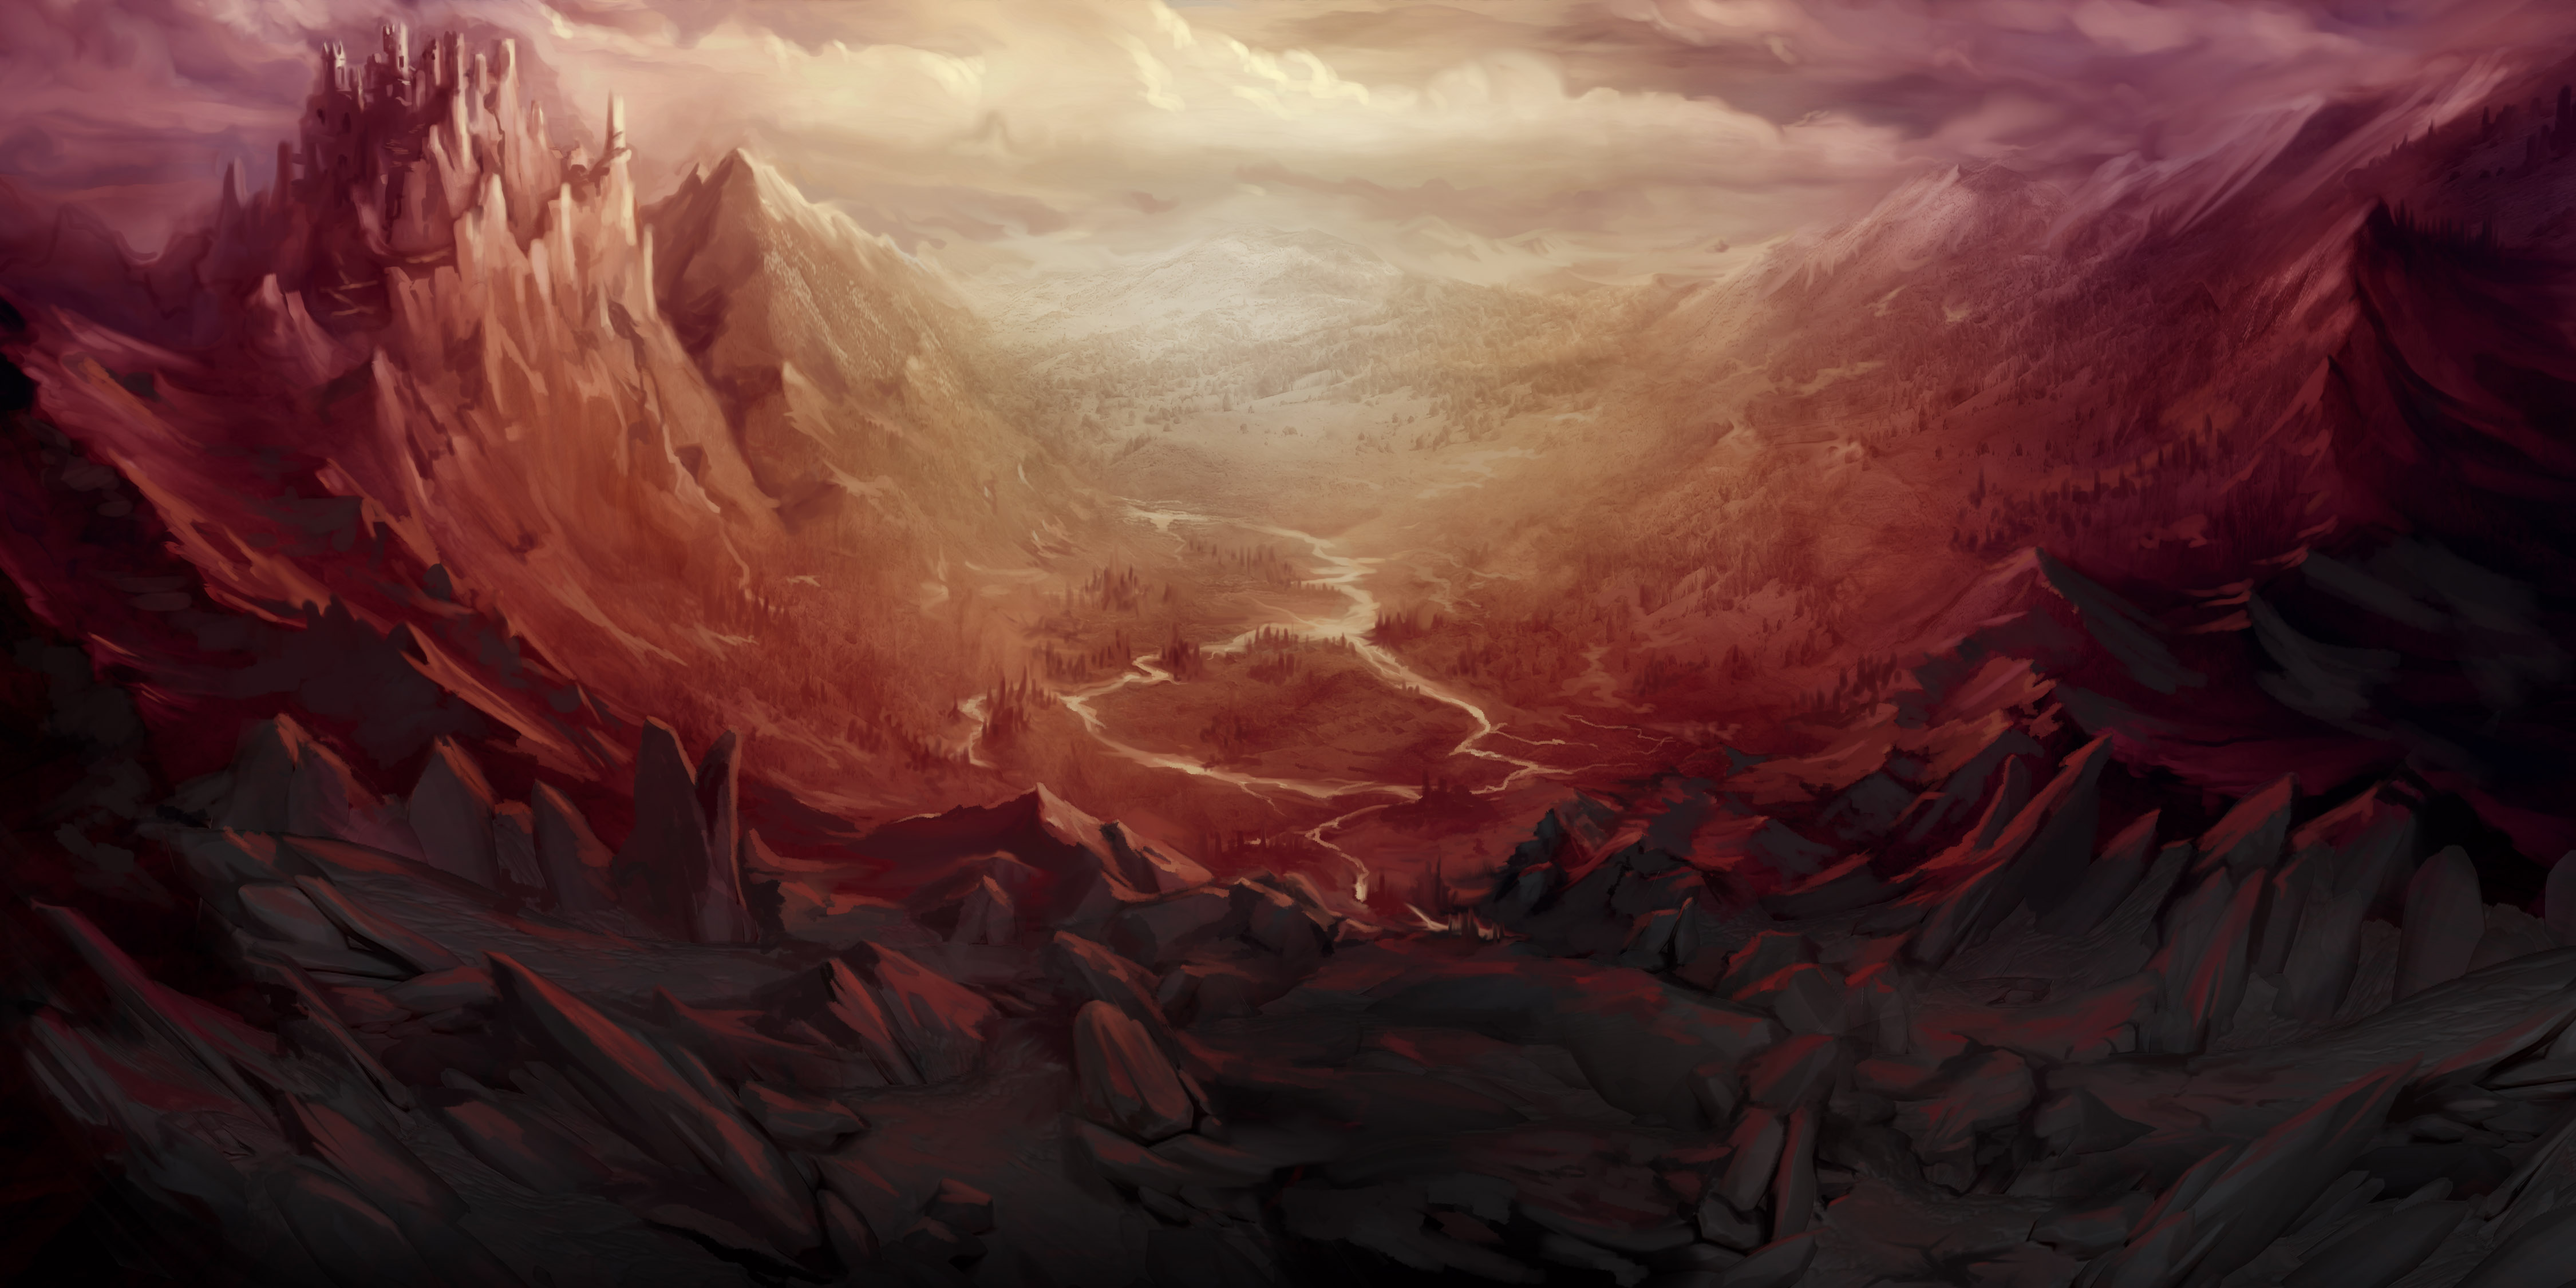
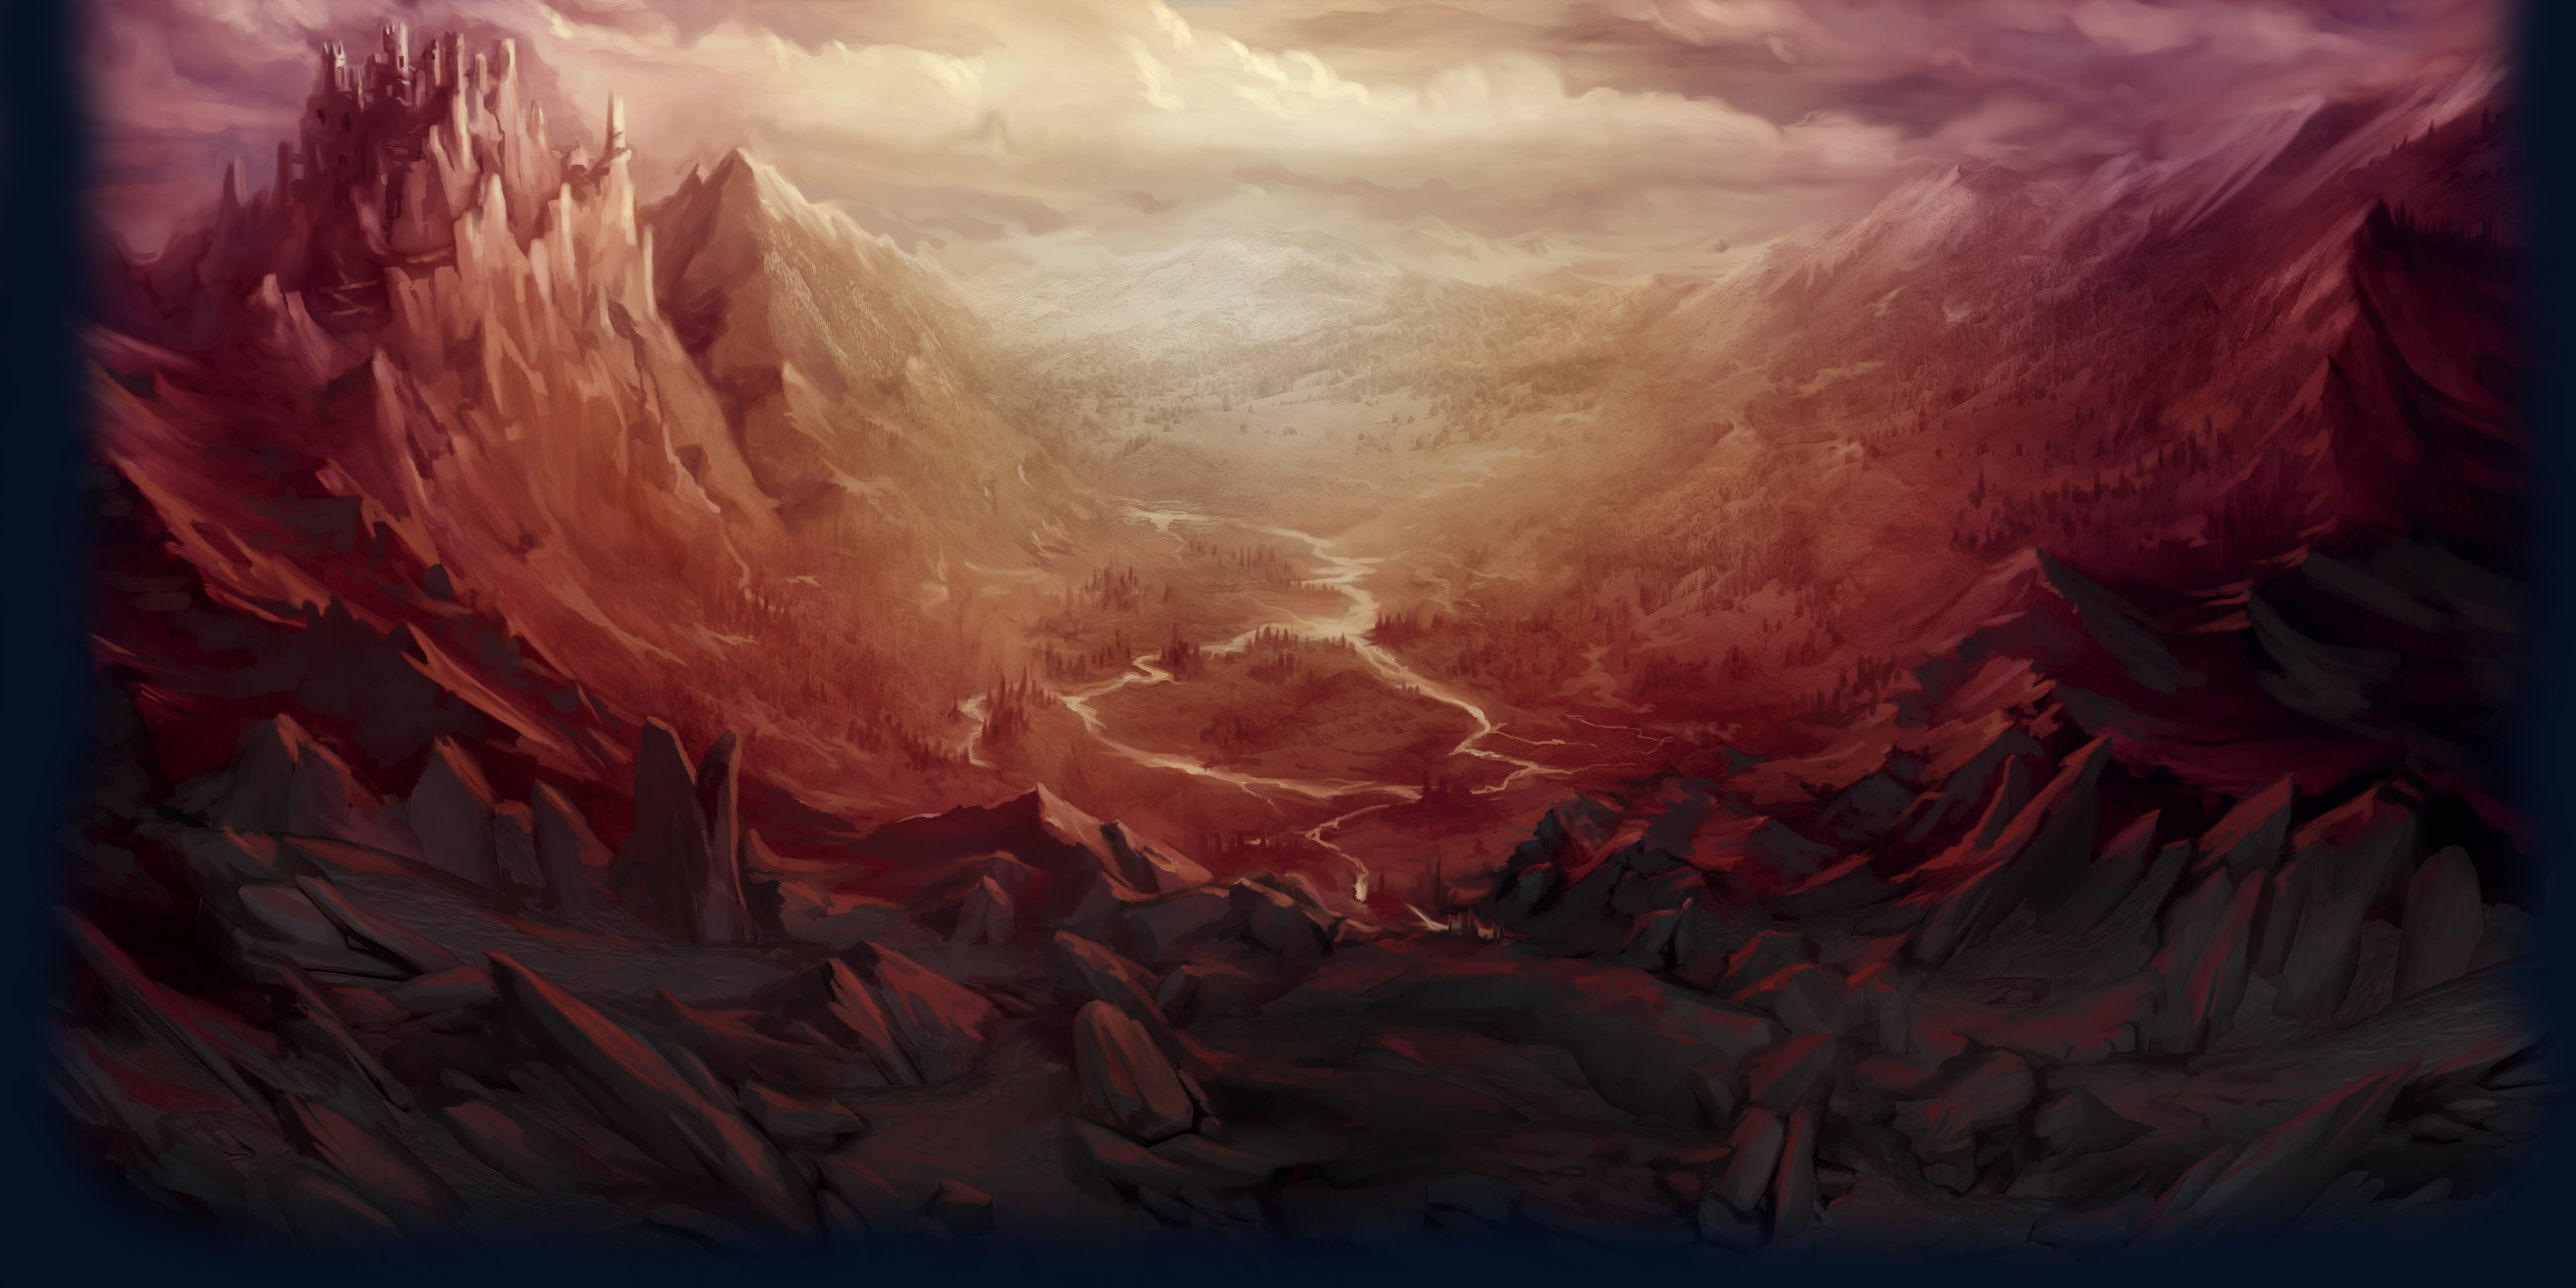
Updates background image

diff --git a/css/styles.css b/css/styles.css
@@ -2,11 +2,7 @@ body {
     background-color: #051122;
     background-position: center top;
     background-repeat: no-repeat;
-    /* background-image: url(/images/Background_Artwork_8.6.jpg); *//*Original del 8.6 */
-    /* background-image: url(/images/LandingPage2_BG.jpg);Habría que agregarle bottom fade */
-    background-image: url(/images/HeaderArtwork_SummerUpdate2020.jpg);
-    /* background-image: url(/images/ClientBackground_20th_Anniversary.jpg); */ /*Habría que agregarle bottom fade*/
-    /* background-image: url(/images/FanKitIllu_OfflineScreen_NoChars_1920x1080.jpg); */ /*Habría que agregarle bottom fade*/
+    background-image: url(/images/LandingPage2_BG.jpg);
 }
 
 @media(max-width:1280px) {
